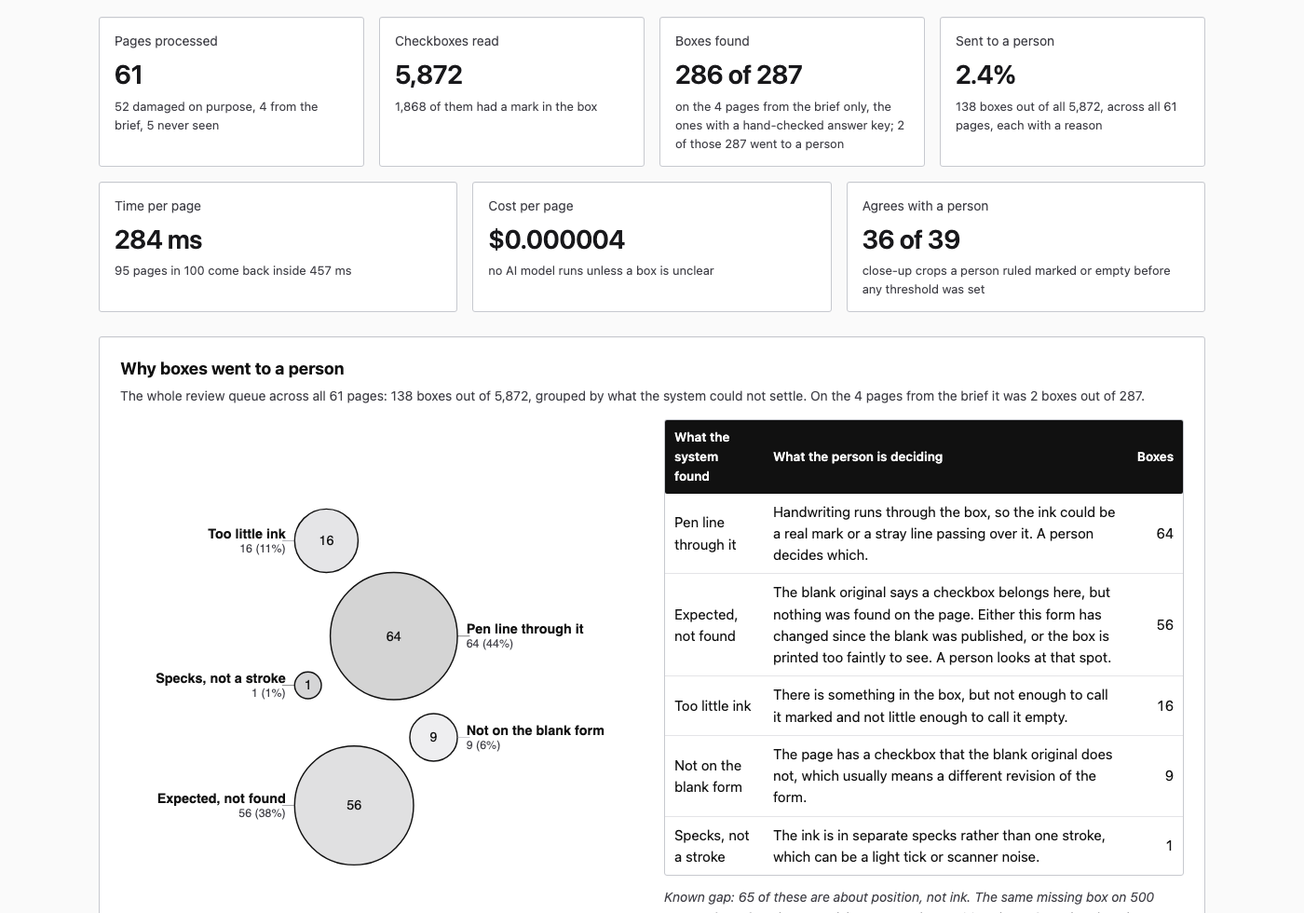
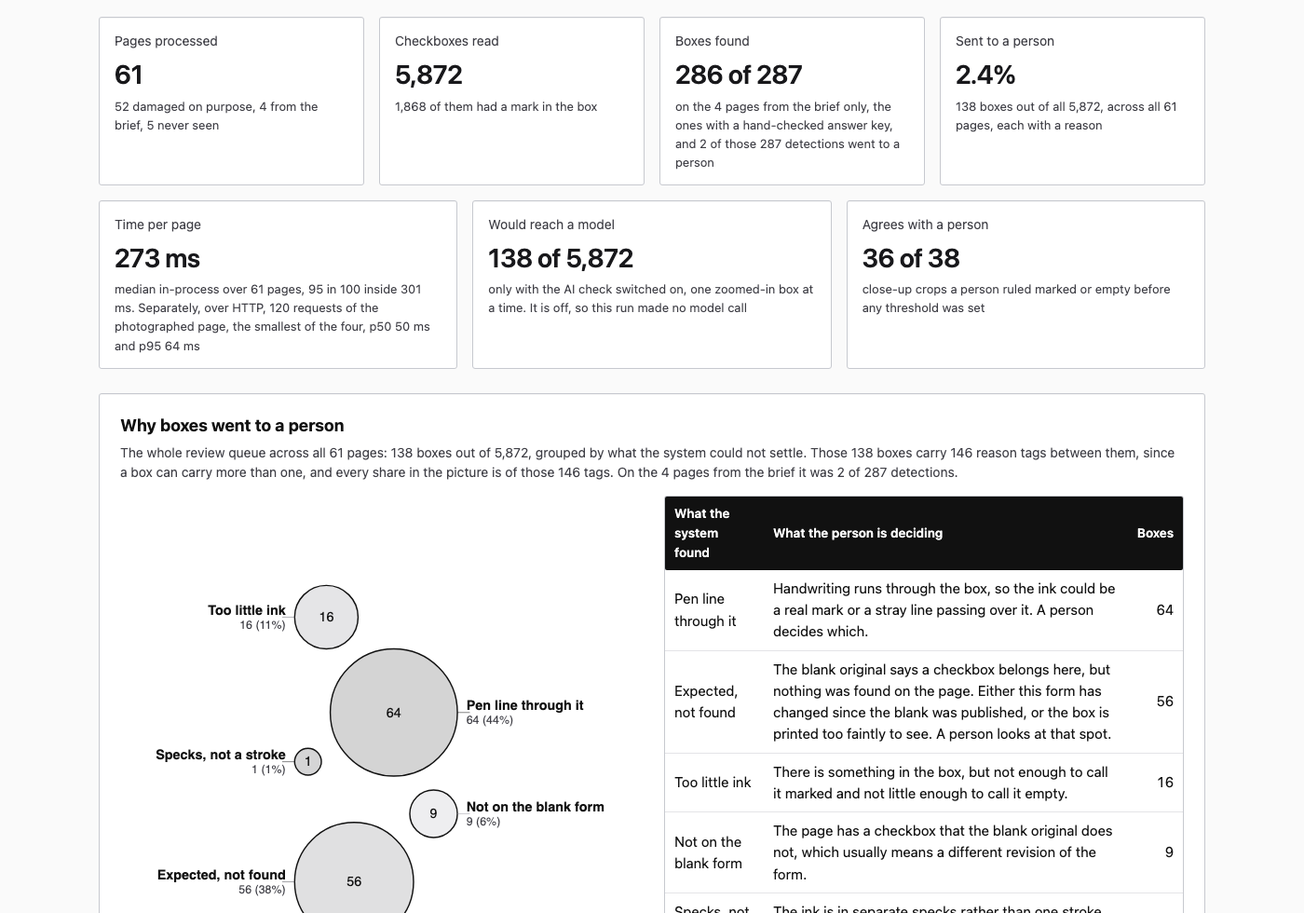
Dashboard shows measured facts only, the hard-card reads and labeled reason shares

diff --git a/deliverables/dashboard.html b/deliverables/dashboard.html
@@ -65,7 +65,7 @@
     <h1>Checkbox reading, what it did and where it struggled</h1>
     <p class="band-sub">Every number on this page came out of an actual run over 61 pages and 5,872 checkboxes. None of it is a mock-up or a worked example; this is what the software did. Run <code>make dashboard</code> yourself and this exact page comes back, byte for byte; <code>make synth &amp;&amp; make telemetry</code> re-measures the damaged corpus from scratch, and <code>scripts/fetch_holdout.py</code> adds the five real appraisals.</p>
   </header>
-  <p class="sub"><strong>What is in this run.</strong> The brief supplied 4 pages, 287 checkboxes. I made 52 more by damaging those same pages on purpose, and fetched 5 real appraisals it had never seen. That is 61 pages and 5,872 checkboxes in total, and every count below names which of those three groups it came from.</p>
+  <p class="sub"><strong>What is in this run.</strong> The brief supplied 4 pages, 287 checkboxes. I made 52 more by drawing marks into the two blank federal forms and damaging them on purpose, and fetched 5 real appraisals it had never seen. That is 61 pages and 5,872 checkboxes in total, and every count below names which of those three groups it came from.</p>
   <p class="sub">A checkbox that only one of the two reads sees is <strong>either a form that changed or a box that was missed</strong>, and no single read can tell those apart. The two reads settle only where the boxes are, not whether they are marked: one finds them by their printed borders on this page, the other projects them from the blank original of that form.</p>
   <p class="sub"><em>A loan file never waits on us, and no page gets a silent guess. On 31 of 61 pages we double-checked every box against the blank original form; on the other 30, mostly scans I damaged, the page was too rough to line up with the original, so we read it once and labeled it read once, not double-checked. A page like that is usually just a bad scan, but it could be a newer form than the one we hold, or a page someone changed. We pass it anyway, in good faith, and the flag points the customer, ahead of time, at exactly the pages that could be an out-of-version form or fraud.</em></p>
 
@@ -83,7 +83,7 @@
     <div class="kpi">
       <div class="kpi-label">Boxes found</div>
       <div class="kpi-value">286 of 287</div>
-      <div class="kpi-note">on the 4 pages from the brief only, the ones with a hand-checked answer key; 2 of those 287 went to a person</div>
+      <div class="kpi-note">on the 4 pages from the brief only, the ones with a hand-checked answer key, and 2 of those 287 detections went to a person</div>
     </div>
     <div class="kpi">
       <div class="kpi-label">Sent to a person</div>
@@ -92,17 +92,17 @@
     </div>
     <div class="kpi">
       <div class="kpi-label">Time per page</div>
-      <div class="kpi-value">284 ms</div>
-      <div class="kpi-note">95 pages in 100 come back inside 457 ms</div>
+      <div class="kpi-value">273 ms</div>
+      <div class="kpi-note">median in-process over 61 pages, 95 in 100 inside 301 ms. Separately, over HTTP, 120 requests of the photographed page, the smallest of the four, p50 50 ms and p95 64 ms</div>
     </div>
     <div class="kpi">
-      <div class="kpi-label">Cost per page</div>
-      <div class="kpi-value">$0.000004</div>
-      <div class="kpi-note">no AI model runs unless a box is unclear</div>
+      <div class="kpi-label">Would reach a model</div>
+      <div class="kpi-value">138 of 5,872</div>
+      <div class="kpi-note">only with the AI check switched on, one zoomed-in box at a time. It is off, so this run made no model call</div>
     </div>
     <div class="kpi">
       <div class="kpi-label">Agrees with a person</div>
-      <div class="kpi-value">36 of 39</div>
+      <div class="kpi-value">36 of 38</div>
       <div class="kpi-note">close-up crops a person ruled marked or empty before any threshold was set</div>
     </div>
   </div>
@@ -110,7 +110,7 @@
   <div class="grid">
     <div class="card wide">
       <h2>Why boxes went to a person</h2>
-      <p class="why">The whole review queue across all 61 pages: 138 boxes out of 5,872, grouped by what the system could not settle. On the 4 pages from the brief it was 2 boxes out of 287.</p>
+      <p class="why">The whole review queue across all 61 pages: 138 boxes out of 5,872, grouped by what the system could not settle. Those 138 boxes carry 146 reason tags between them, since a box can carry more than one, and every share in the picture is of those 146 tags. On the 4 pages from the brief it was 2 of 287 detections.</p>
       <div class="split">
         <div style="align-self:center">
           <svg viewBox="3 9 583 423" class="chart bubbles" role="img" aria-label="Reason codes by frequency">
@@ -230,18 +230,18 @@
 
     <div class="card">
       <h2>Who is the apprentice?</h2>
-      <p class="why">A small neural network trained from scratch on my own crops, 23,000 weights in a 29KB file, the only model in the system; nothing it sees leaves the building. The LLM that built this product wrote both contestants, the rules and this model, and judged them against one referee: 52 damaged pages plus the human-ruled answer keys.</p>
+      <p class="why">A small neural network trained from scratch on my own crops, 23,381 weights in a 29KB file, the only model in the system, and nothing it sees leaves the building. The LLM that built this product wrote both contestants, the rules and this model, and judged them against one referee: 52 damaged pages plus the human-ruled answer keys. The 286 graded boxes below are the 287 detections on the brief pages minus the one sitting on the tick the labeler ruled unsure, which no key can grade.</p>
       <table>
         <tr><th>How it ran</th><th class="n">Sent to a person</th><th class="n">Settled right</th><th class="n">Settled wrong</th></tr>
         <tr><td>Rules only, which is what ships</td><td class="n">2 of 286</td><td class="n">284</td><td class="n">0</td></tr>
         <tr><td>The CNN alone, a test</td><td class="n">56 of 286</td><td class="n">229</td><td class="n">1</td></tr>
         <tr><td>Both together, a test</td><td class="n">19 of 286</td><td class="n">267</td><td class="n">0</td></tr>
       </table>
-      <p class="why" style="margin-top:8px"><strong>Verdict: rules only.</strong> All three are nearly errorless on the brief's answer key; they differ in how much they hand to people, 2 against 19 against 56. Most automation at the same accuracy wins. All three run in the same third of a second on our own CPU; nothing leaves the building.</p>
+      <p class="why" style="margin-top:8px"><strong>Verdict: rules only.</strong> All three are nearly errorless on the brief's answer key; they differ in how much they hand to people, 2 against 19 against 56. Most automation at the same accuracy wins. All three run on our own CPU, and the CNN adds 4 ms to a 118-box page (make bench-cnn). Nothing leaves the building.</p>
       <div class="note">
         <p><strong>The rules won the match, so the CNN stays switched off.</strong></p>
         <ul>
-          <li>It caught nothing the rules missed, and misread both real never-seen test boxes.</li>
+          <li>It caught nothing the rules missed, and on the two hard boxes on the photographed page it settled neither: it queued the empty pen loop at p(filled) 0.845 and read the filled faded X as empty at 0.082.</li>
           <li>Switched on, it only adds work: 17 more boxes to people, zero errors caught.</li>
           <li>Legibility is the invariant. The rules have it built in, every answer carries a reason a person can check, nothing extra needed. The CNN can only approach it by emitting logs, a confidence and a heat map for every box it reads, replayable forever.</li>
         </ul>
@@ -276,7 +276,7 @@
 <circle cx="498.0" cy="37.5" r="4.5" fill="#111111" fill-opacity="0.55" stroke="#111111" stroke-width="1"/>
 <circle cx="498.8" cy="47.0" r="4.5" fill="#111111" fill-opacity="0.55" stroke="#111111" stroke-width="1"/>
 <circle cx="510.5" cy="37.5" r="4.5" fill="#111111" fill-opacity="0.55" stroke="#111111" stroke-width="1"/>
-<text x="149.64000000000001" y="94.0" class="lab" text-anchor="end" fill="#3f3f46">Empty (21)</text>
+<text x="149.64000000000001" y="94.0" class="lab" text-anchor="end" fill="#3f3f46">Empty (20)</text>
 <line x1="161.64000000000001" y1="89.0" x2="534" y2="89.0" stroke="#e4e4e7" stroke-width="1"/>
 <circle cx="161.6" cy="79.5" r="4.5" fill="#52525b" fill-opacity="0.55" stroke="#52525b" stroke-width="1"/>
 <circle cx="161.6" cy="89.0" r="4.5" fill="#52525b" fill-opacity="0.55" stroke="#52525b" stroke-width="1"/>
@@ -297,9 +297,8 @@
 <circle cx="161.6" cy="89.0" r="4.5" fill="#52525b" fill-opacity="0.55" stroke="#52525b" stroke-width="1"/>
 <circle cx="161.6" cy="98.5" r="4.5" fill="#52525b" fill-opacity="0.55" stroke="#52525b" stroke-width="1"/>
 <circle cx="161.6" cy="79.5" r="4.5" fill="#52525b" fill-opacity="0.55" stroke="#52525b" stroke-width="1"/>
-<circle cx="161.6" cy="89.0" r="4.5" fill="#52525b" fill-opacity="0.55" stroke="#52525b" stroke-width="1"/>
 <circle cx="300.3" cy="79.5" r="4.5" fill="#52525b" fill-opacity="0.55" stroke="#52525b" stroke-width="1"/>
-<text x="149.64000000000001" y="136.0" class="lab" text-anchor="end" fill="#3f3f46">Not a checkbox (7)</text>
+<text x="149.64000000000001" y="136.0" class="lab" text-anchor="end" fill="#3f3f46">Not a checkbox (8)</text>
 <line x1="161.64000000000001" y1="131.0" x2="534" y2="131.0" stroke="#e4e4e7" stroke-width="1"/>
 <circle cx="161.6" cy="121.5" r="4.5" fill="#a1a1aa" fill-opacity="0.55" stroke="#a1a1aa" stroke-width="1"/>
 <circle cx="161.6" cy="131.0" r="4.5" fill="#a1a1aa" fill-opacity="0.55" stroke="#a1a1aa" stroke-width="1"/>
@@ -308,6 +307,7 @@
 <circle cx="161.6" cy="131.0" r="4.5" fill="#a1a1aa" fill-opacity="0.55" stroke="#a1a1aa" stroke-width="1"/>
 <circle cx="161.6" cy="140.5" r="4.5" fill="#a1a1aa" fill-opacity="0.55" stroke="#a1a1aa" stroke-width="1"/>
 <circle cx="161.6" cy="121.5" r="4.5" fill="#a1a1aa" fill-opacity="0.55" stroke="#a1a1aa" stroke-width="1"/>
+<circle cx="161.6" cy="131.0" r="4.5" fill="#a1a1aa" fill-opacity="0.55" stroke="#a1a1aa" stroke-width="1"/>
 <text x="149.64000000000001" y="178.0" class="lab" text-anchor="end" fill="#3f3f46">Unsure (1)</text>
 <line x1="161.64000000000001" y1="173.0" x2="534" y2="173.0" stroke="#e4e4e7" stroke-width="1"/>
 <circle cx="337.7" cy="163.5" r="4.5" fill="#71717a" fill-opacity="0.55" stroke="#71717a" stroke-width="1"/>
@@ -330,7 +330,7 @@
 
     <div class="card wide">
       <h2>The number that stopped being useful</h2>
-      <p class="why">Accuracy is agreement with a person's reading of the same boxes, and there are two honest denominators. Count everything and it is 285 of 286, flat since v2. Count only the boxes it settled without a person, the number that matters in operation, and it is 268 of 268: the one wrong answer sat in the flagged pile. The falling line below is those flags, 51 down to 2, false alarms being fixed while the answers never moved.</p>
+      <p class="why">Accuracy is agreement with a person's reading of the same boxes, and there are two honest denominators. Count everything and it is 285 of 286, flat since v2. Count only the boxes it settled without a person, the number that matters in operation, and it is 284 of 284: the one wrong answer sat in the flagged pile. The falling line below is those flags, 51 down to 2, false alarms being fixed while the answers never moved.</p>
       <div class="split">
         <div>
           <p class="why" style="margin:0 0 2px">Agreement with a person, all graded boxes:</p>
@@ -390,7 +390,7 @@
         <ul>
           <li>v1 graded itself against an answer key it had written, a meaningless 1.0. A person corrected the key at v2; the honest record starts there.</li>
           <li>v4 added the second read from the blank original and the queue went UP, 52 to 61. It surfaces disagreements the first read cannot see about itself; the versions after resolve them.</li>
-          <li>v5 collapsed the queue, 61 to 4, by setting the bar where real marks sit. The old rule wanted a stroke across 70% of the box; a clean X spans about 52%, so real marks were flagged unsure by construction.</li>
+          <li>v5 collapsed the queue, 61 to 4, by setting the bar where real marks sit. The old rule wanted a stroke across 70% of the box, which no clean X reaches, so real marks were flagged unsure by construction.</li>
           <li>v6 caught a fake box, 4 to 2. The software had read the printed word "Att." as a checkbox, and the answer key, copied from the software's own output, agreed. The blank form says that row holds three boxes, not four; the key was fixed by hand, and a wrong-size box with letters inside is now rejected.</li>
           <li>v7 moved the definition of a mark out of the code into <code>policy.json</code>, the settings file the customer owns. A circle, a strike-out, a thin stroke, the ink thresholds: changing them is now their edit, not our release. Nothing moved that day, and a gate asserts the shipped file still reproduces these numbers.</li>
         </ul>
@@ -421,6 +421,6 @@
   </div>
 
   <footer>
-    Built by <code>make_dashboard.py</code> from <code>telemetry.json</code>, <code>eval_report.json</code>, <code>synth_report.json</code>, <code>gold_report.json</code> and <code>data/gold_set.json</code>. No network, no dependencies, no hand-entered numbers.
+    Built by <code>make_dashboard.py</code> from <code>telemetry.json</code>, <code>eval_report.json</code>, <code>synth_report.json</code>, <code>gold_report.json</code>, <code>compare_readers_report.json</code>, <code>bench_report.json</code>, <code>cnn_latency.json</code> and <code>data/gold_set.json</code>. No network, no dependencies, no hand-entered numbers.
   </footer>
 </div>

diff --git a/tools/make_dashboard.py b/tools/make_dashboard.py
@@ -427,6 +427,7 @@ def main() -> None:
     gold = (load("data/gold_set.json", {}) or {}).get("cards", [])
     gold_rep = load("reports/gold_report.json", {})
     bench = load("reports/bench_report.json", {})
+    cnn_lat = load("reports/cnn_latency.json")
 
     det = tel["modes"]["deterministic core only"]
     clf = tel["modes"]["deterministic core + patch classifier"]
@@ -520,16 +521,31 @@ def main() -> None:
     assert abs(it_acc[-1][1] - 285 / 286) < 1e-3, f"the 285-of-286 claim drifted: {it_acc[-1]}"
 
     overall = ev.get("overall", {})
-    p50 = (bench.get("levels") or [{}])[0].get("p50_ms", dt["p50_ms"])
-    p95 = (bench.get("levels") or [{}])[0].get("p95_ms", dt["p95_ms"])
+    # Two timing instruments, never mixed on one line: the in-process median and p95 over the
+    # whole corpus (telemetry.json), and the HTTP round trip of one page repeated (bench_report.json).
+    http = (bench.get("levels") or [{}])[0]
+    if not http.get("requests"):
+        raise SystemExit("bench_report.json carries no HTTP level: run `make serve` and `make bench` first")
+    # The bench target times the brief's photographed page, the smallest of the four, so the HTTP pair is
+    # named with its page and never stands in for a full form.
+    http_page = {"sample_1.jpg": "the photographed page, the smallest of the four"}.get(Path(bench.get("image", "")).name, Path(bench.get("image", "")).name)
+    http_note = f"over HTTP, {http['requests']} requests of {http_page}, p50 {http['p50_ms']:.0f} ms and p95 {http['p95_ms']:.0f} ms"
+    routed_total = sum(pg.get("routed", 0) for pg in det["pages"])
+    n_tags = sum(dt["reasons"].values())
+    hard = {c["id"]: c for c in cmp_r.get("hard_cards", [])}
+    if "c029" not in hard or "c055" not in hard:
+        raise SystemExit("compare_readers_report.json carries no hard-card reads: run `make compare` first")
+    if not cnn_lat:
+        raise SystemExit("cnn_latency.json missing: run `make bench-cnn` first")
+    cnn_page = max(cnn_lat["pages"], key=lambda r: r["boxes"])
 
     kpis = "\n".join([
         kpi("Pages processed", f"{dt['pages']}", f"{n_synth} damaged on purpose, {n_sample} from the brief, {n_hold} never seen"),
         kpi("Checkboxes read", f"{dt['boxes']:,}", f"{dt['checked']:,} of them had a mark in the box"),
-        kpi("Boxes found", f"{overall.get('tp', 0)} of {overall.get('tp', 0) + overall.get('fn', 0)}", f"on the {n_sample} pages from the brief only, the ones with a hand-checked answer key; {sample_q} of those {b_sample} went to a person"),
+        kpi("Boxes found", f"{overall.get('tp', 0)} of {overall.get('tp', 0) + overall.get('fn', 0)}", f"on the {n_sample} pages from the brief only, the ones with a hand-checked answer key, and {sample_q} of those {b_sample} detections went to a person"),
         kpi("Sent to a person", f"{100 * dt['flag_rate']:.1f}%", f"{dt['flagged']} boxes out of all {dt['boxes']:,}, across all {dt['pages']} pages, each with a reason"),
-        kpi("Time per page", f"{dt['p50_ms']:.0f} ms", f"95 pages in 100 come back inside {p95:.0f} ms"),
-        kpi("Cost per page", "$0.000004", "no AI model runs unless a box is unclear"),
+        kpi("Time per page", f"{dt['p50_ms']:.0f} ms", f"median in-process over {dt['pages']} pages, 95 in 100 inside {dt['p95_ms']:.0f} ms. Separately, {http_note}"),
+        kpi("Would reach a model", f"{routed_total} of {dt['boxes']:,}", "only with the AI check switched on, one zoomed-in box at a time. It is off, so this run made no model call"),
         kpi("Agrees with a person", f"{gold_rep.get('correct', 0)} of {gold_rep.get('cards', 0)}", "close-up crops a person ruled marked or empty before any threshold was set"),
     ])
 
@@ -600,7 +616,7 @@ def main() -> None:
     <h1>Checkbox reading, what it did and where it struggled</h1>
     <p class="band-sub">Every number on this page came out of an actual run over {dt['pages']} pages and {dt['boxes']:,} checkboxes. None of it is a mock-up or a worked example; this is what the software did. Run <code>make dashboard</code> yourself and this exact page comes back, byte for byte; <code>make synth &amp;&amp; make telemetry</code> re-measures the damaged corpus from scratch, and <code>scripts/fetch_holdout.py</code> adds the five real appraisals.</p>
   </header>
-  <p class="sub"><strong>What is in this run.</strong> The brief supplied {n_sample} pages, {b_sample} checkboxes. I made {n_synth} more by damaging those same pages on purpose, and fetched {n_hold} real appraisals it had never seen. That is {dt['pages']} pages and {dt['boxes']:,} checkboxes in total, and every count below names which of those three groups it came from.</p>
+  <p class="sub"><strong>What is in this run.</strong> The brief supplied {n_sample} pages, {b_sample} checkboxes. I made {n_synth} more by drawing marks into the two blank federal forms and damaging them on purpose, and fetched {n_hold} real appraisals it had never seen. That is {dt['pages']} pages and {dt['boxes']:,} checkboxes in total, and every count below names which of those three groups it came from.</p>
   <p class="sub">A checkbox that only one of the two reads sees is <strong>either a form that changed or a box that was missed</strong>, and no single read can tell those apart. The two reads settle only where the boxes are, not whether they are marked: one finds them by their printed borders on this page, the other projects them from the blank original of that form.</p>
   <p class="sub"><em>A loan file never waits on us, and no page gets a silent guess. On {dt['trusted_pages']} of {dt['pages']} pages we double-checked every box against the blank original form; on the other {dt['pages'] - dt['trusted_pages']}, mostly scans I damaged, the page was too rough to line up with the original, so we read it once and labeled it read once, not double-checked. A page like that is usually just a bad scan, but it could be a newer form than the one we hold, or a page someone changed. We pass it anyway, in good faith, and the flag points the customer, ahead of time, at exactly the pages that could be an out-of-version form or fraud.</em></p>
 
@@ -611,7 +627,7 @@ def main() -> None:
   <div class="grid">
     <div class="card wide">
       <h2>Why boxes went to a person</h2>
-      <p class="why">The whole review queue across all {dt['pages']} pages: {dt['flagged']} boxes out of {dt['boxes']:,}, grouped by what the system could not settle. On the {n_sample} pages from the brief it was {sample_q} boxes out of {b_sample}.</p>
+      <p class="why">The whole review queue across all {dt['pages']} pages: {dt['flagged']} boxes out of {dt['boxes']:,}, grouped by what the system could not settle. Those {dt['flagged']} boxes carry {n_tags} reason tags between them, since a box can carry more than one, and every share in the picture is of those {n_tags} tags. On the {n_sample} pages from the brief it was {sample_q} of {b_sample} detections.</p>
       <div class="split">
         <div style="align-self:center">
           {bubbles(dt["reasons"], w=580, h=430)}
@@ -642,18 +658,18 @@ def main() -> None:
 
     <div class="card">
       <h2>Who is the apprentice?</h2>
-      <p class="why">A small neural network trained from scratch on my own crops, 23,000 weights in a 29KB file, the only model in the system; nothing it sees leaves the building. The LLM that built this product wrote both contestants, the rules and this model, and judged them against one referee: 52 damaged pages plus the human-ruled answer keys.</p>
+      <p class="why">A small neural network trained from scratch on my own crops, 23,381 weights in a 29KB file, the only model in the system, and nothing it sees leaves the building. The LLM that built this product wrote both contestants, the rules and this model, and judged them against one referee: 52 damaged pages plus the human-ruled answer keys. The 286 graded boxes below are the 287 detections on the brief pages minus the one sitting on the tick the labeler ruled unsure, which no key can grade.</p>
       <table>
         <tr><th>How it ran</th><th class="n">Sent to a person</th><th class="n">Settled right</th><th class="n">Settled wrong</th></tr>
         <tr><td>Rules only, which is what ships</td><td class="n">{cmp_r['rules']['queue']} of {cmp_r['rules']['graded']}</td><td class="n">{cmp_r['rules']['right']}</td><td class="n">{cmp_r['rules']['wrong']}</td></tr>
         <tr><td>The CNN alone, a test</td><td class="n">{cmp_r['cnn']['queue']} of {cmp_r['cnn']['graded']}</td><td class="n">{cmp_r['cnn']['right']}</td><td class="n">{cmp_r['cnn']['wrong']}</td></tr>
         <tr><td>Both together, a test</td><td class="n">{cmp_r['both']['queue']} of {cmp_r['both']['graded']}</td><td class="n">{cmp_r['both']['right']}</td><td class="n">{cmp_r['both']['wrong']}</td></tr>
       </table>
-      <p class="why" style="margin-top:8px"><strong>Verdict: rules only.</strong> All three are nearly errorless on the brief's answer key; they differ in how much they hand to people, {cmp_r['rules']['queue']} against {cmp_r['both']['queue']} against {cmp_r['cnn']['queue']}. Most automation at the same accuracy wins. All three run in the same third of a second on our own CPU; nothing leaves the building.</p>
+      <p class="why" style="margin-top:8px"><strong>Verdict: rules only.</strong> All three are nearly errorless on the brief's answer key; they differ in how much they hand to people, {cmp_r['rules']['queue']} against {cmp_r['both']['queue']} against {cmp_r['cnn']['queue']}. Most automation at the same accuracy wins. All three run on our own CPU, and the CNN adds {cnn_page['median_ms']:.0f} ms to a {cnn_page['boxes']}-box page (make bench-cnn). Nothing leaves the building.</p>
       <div class="note">
         <p><strong>The rules won the match, so the CNN stays switched off.</strong></p>
         <ul>
-          <li>It caught nothing the rules missed, and misread both real never-seen test boxes.</li>
+          <li>It caught nothing the rules missed, and on the two hard boxes on the photographed page it settled neither: it queued the empty pen loop at p(filled) {hard['c029']['cnn_p_filled']:.3f} and read the filled faded X as empty at {hard['c055']['cnn_p_filled']:.3f}.</li>
           <li>Switched on, it only adds work: {cmp_r['both']['queue'] - cmp_r['rules']['queue']} more boxes to people, zero errors caught.</li>
           <li>Legibility is the invariant. The rules have it built in, every answer carries a reason a person can check, nothing extra needed. The CNN can only approach it by emitting logs, a confidence and a heat map for every box it reads, replayable forever.</li>
         </ul>
@@ -677,7 +693,7 @@ def main() -> None:
 
     <div class="card wide">
       <h2>The number that stopped being useful</h2>
-      <p class="why">Accuracy is agreement with a person's reading of the same boxes, and there are two honest denominators. Count everything and it is 285 of 286, flat since v2. Count only the boxes it settled without a person, the number that matters in operation, and it is 268 of 268: the one wrong answer sat in the flagged pile. The falling line below is those flags, 51 down to 2, false alarms being fixed while the answers never moved.</p>
+      <p class="why">Accuracy is agreement with a person's reading of the same boxes, and there are two honest denominators. Count everything and it is 285 of 286, flat since v2. Count only the boxes it settled without a person, the number that matters in operation, and it is {cmp_r['rules']['right']} of {cmp_r['rules']['right'] + cmp_r['rules']['wrong']}: the one wrong answer sat in the flagged pile. The falling line below is those flags, 51 down to 2, false alarms being fixed while the answers never moved.</p>
       <div class="split">
         <div>
           <p class="why" style="margin:0 0 2px">Agreement with a person, all graded boxes:</p>
@@ -693,7 +709,7 @@ def main() -> None:
         <ul>
           <li>v1 graded itself against an answer key it had written, a meaningless 1.0. A person corrected the key at v2; the honest record starts there.</li>
           <li>v4 added the second read from the blank original and the queue went UP, 52 to 61. It surfaces disagreements the first read cannot see about itself; the versions after resolve them.</li>
-          <li>v5 collapsed the queue, 61 to 4, by setting the bar where real marks sit. The old rule wanted a stroke across 70% of the box; a clean X spans about 52%, so real marks were flagged unsure by construction.</li>
+          <li>v5 collapsed the queue, 61 to 4, by setting the bar where real marks sit. The old rule wanted a stroke across 70% of the box, which no clean X reaches, so real marks were flagged unsure by construction.</li>
           <li>v6 caught a fake box, 4 to 2. The software had read the printed word "Att." as a checkbox, and the answer key, copied from the software's own output, agreed. The blank form says that row holds three boxes, not four; the key was fixed by hand, and a wrong-size box with letters inside is now rejected.</li>
           <li>v7 moved the definition of a mark out of the code into <code>policy.json</code>, the settings file the customer owns. A circle, a strike-out, a thin stroke, the ink thresholds: changing them is now their edit, not our release. Nothing moved that day, and a gate asserts the shipped file still reproduces these numbers.</li>
         </ul>
@@ -724,7 +740,7 @@ def main() -> None:
   </div>
 
   <footer>
-    Built by <code>make_dashboard.py</code> from <code>telemetry.json</code>, <code>eval_report.json</code>, <code>synth_report.json</code>, <code>gold_report.json</code> and <code>data/gold_set.json</code>. No network, no dependencies, no hand-entered numbers.
+    Built by <code>make_dashboard.py</code> from <code>telemetry.json</code>, <code>eval_report.json</code>, <code>synth_report.json</code>, <code>gold_report.json</code>, <code>compare_readers_report.json</code>, <code>bench_report.json</code>, <code>cnn_latency.json</code> and <code>data/gold_set.json</code>. No network, no dependencies, no hand-entered numbers.
   </footer>
 </div>
 """
